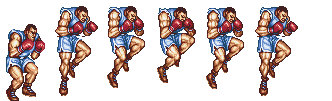
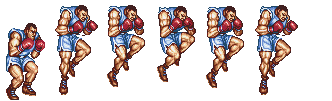
feat: fixed attacks and sprites

diff --git a/include/init_fighters.h b/include/init_fighters.h
@@ -66,22 +66,22 @@ static const movement_init_t MOVES_INIT[] = {
     {
         ATTACK_UP,
         "attack_up.png",
-        100,
-        {0, 0, 75, 150},
+        150,
+        {0, 0, 70, 130},
         3
     },
     {
         ATTACK_DOWN,
         "attack_down.png",
         100,
-        {0, 0, 75, 100},
+        {0, 0, 67, 100},
         3
     },
     {
         ATTACK_CROUCH,
         "attack_crouch.png",
         100,
-        {0, 0, 75, 100},
+        {0, 0, 75, 110},
         3
     },
     {
@@ -95,7 +95,7 @@ static const movement_init_t MOVES_INIT[] = {
         HIT,
         "hit.png",
         100,
-        {0, 0, 52, 100},
+        {0, 0, 52, 112},
         1
     },
     {

diff --git a/include/fight_attacks.h b/include/fight_attacks.h
@@ -13,11 +13,11 @@
 
 static const sfFloatRect ATTACKS[][10] = {
     [PLAYER_FIGHTER] = {
-        [ATTACK_JUMP] = {80, 60, 50, 50},
-        [ATTACK] = {80, 60, 50, 50},
-        [ATTACK_CROUCH] = {90, 120, 50, 50},
-        [ATTACK_DOWN] = {80, 60, 50, 50},
-        [ATTACK_UP] = {80, 60, 50, 50}
+        [ATTACK_JUMP] = {80, -60, 50, 50},
+        [ATTACK] = {90, -130, 50, 50},
+        [ATTACK_CROUCH] = {90, -70, 50, 50},
+        [ATTACK_DOWN] = {50, -70, 50, 50},
+        [ATTACK_UP] = {85, -230, 50, 50}
     },
     [NPC1] = {
         [ATTACK_JUMP] = {80, 60, 50, 50},

diff --git a/src/fight/attack_actions.c b/src/fight/attack_actions.c
@@ -55,7 +55,7 @@ void attack_crouch(fighter_entity_t *entity)
         entity->annimation_sheets[entity->state]->current_frame + 1;
 
     pre_attack(entity);
-    entity->hitbox.top += CROUCH_POS_OFFSET * current_frame;
+    entity->hitbox.top += (CROUCH_POS_OFFSET - 10) * current_frame;
     entity->hitbox.height = (entity->hitbox.height / CROUCH_HEIGHT_OFFSET);
     entity->dmgbox = apply_offset(entity);
 }

diff --git a/src/fight/fight_entities.c b/src/fight/fight_entities.c
@@ -40,7 +40,7 @@ static sfSprite *init_fight_sprite(fighter_entity_t *entity,
     }
     sfSprite_setTextureRect(sp, MOVES_INIT[moves_index].frame_rec);
     bounds = sfSprite_getGlobalBounds(sp);
-    sfSprite_setOrigin(sp, (sfVector2f) {bounds.width / 2, 0});
+    sfSprite_setOrigin(sp, (sfVector2f) {bounds.width / 2, bounds.height});
     return sp;
 }
 

diff --git a/src/fight/fight_movement.c b/src/fight/fight_movement.c
@@ -34,6 +34,7 @@ static void apply_movement(fighter_entity_t *entity)
         entity->annimation_sheets[entity->state]->sprite_sheet);
     entity->sprite_pos = sfSprite_getPosition(
         entity->annimation_sheets[entity->state]->sprite_sheet);
+    bounds.top += bounds.height / 2.5;
     entity->hitbox = bounds;
     entity->hitbox.left += 30;
 }

diff --git a/src/fight/fight_events.c b/src/fight/fight_events.c
@@ -93,6 +93,9 @@ static int key_events(fight_t *fight)
 {
     fighter_state_t action = IDLE;
 
+    if (sfKeyboard_isKeyPressed(sfKeyD)) {
+        fight->debug_mode = !fight->debug_mode;
+    }
     if (sfKeyboard_isKeyPressed(sfKeyX)) {
         if (decrease_stamina(fight->player, 5))
             action = ATTACK;

diff --git a/src/fight/fight_loading.c b/src/fight/fight_loading.c
@@ -126,7 +126,7 @@ fight_t *load_fight(game_t *game, physical_entity_t *player,
 
     if (fight == NULL)
         return NULL;
-    fight->debug_mode = true;
+    fight->debug_mode = false;
     fight->arena = arena;
     fight->npc_stats = npc;
     fight->player_stats = player;

diff --git a/include/fight_macros.h b/include/fight_macros.h
@@ -69,7 +69,7 @@ typedef enum fight_textures_e {
 } fight_textures_t;
 
 static const int MAX_FRAMES = 255;
-static const int FLOOR_Y = 700;
+static const int FLOOR_Y = 900;
 static const fighter_state_t STATE_LOCKS[] = {
     HIT,
     ATTACK,
